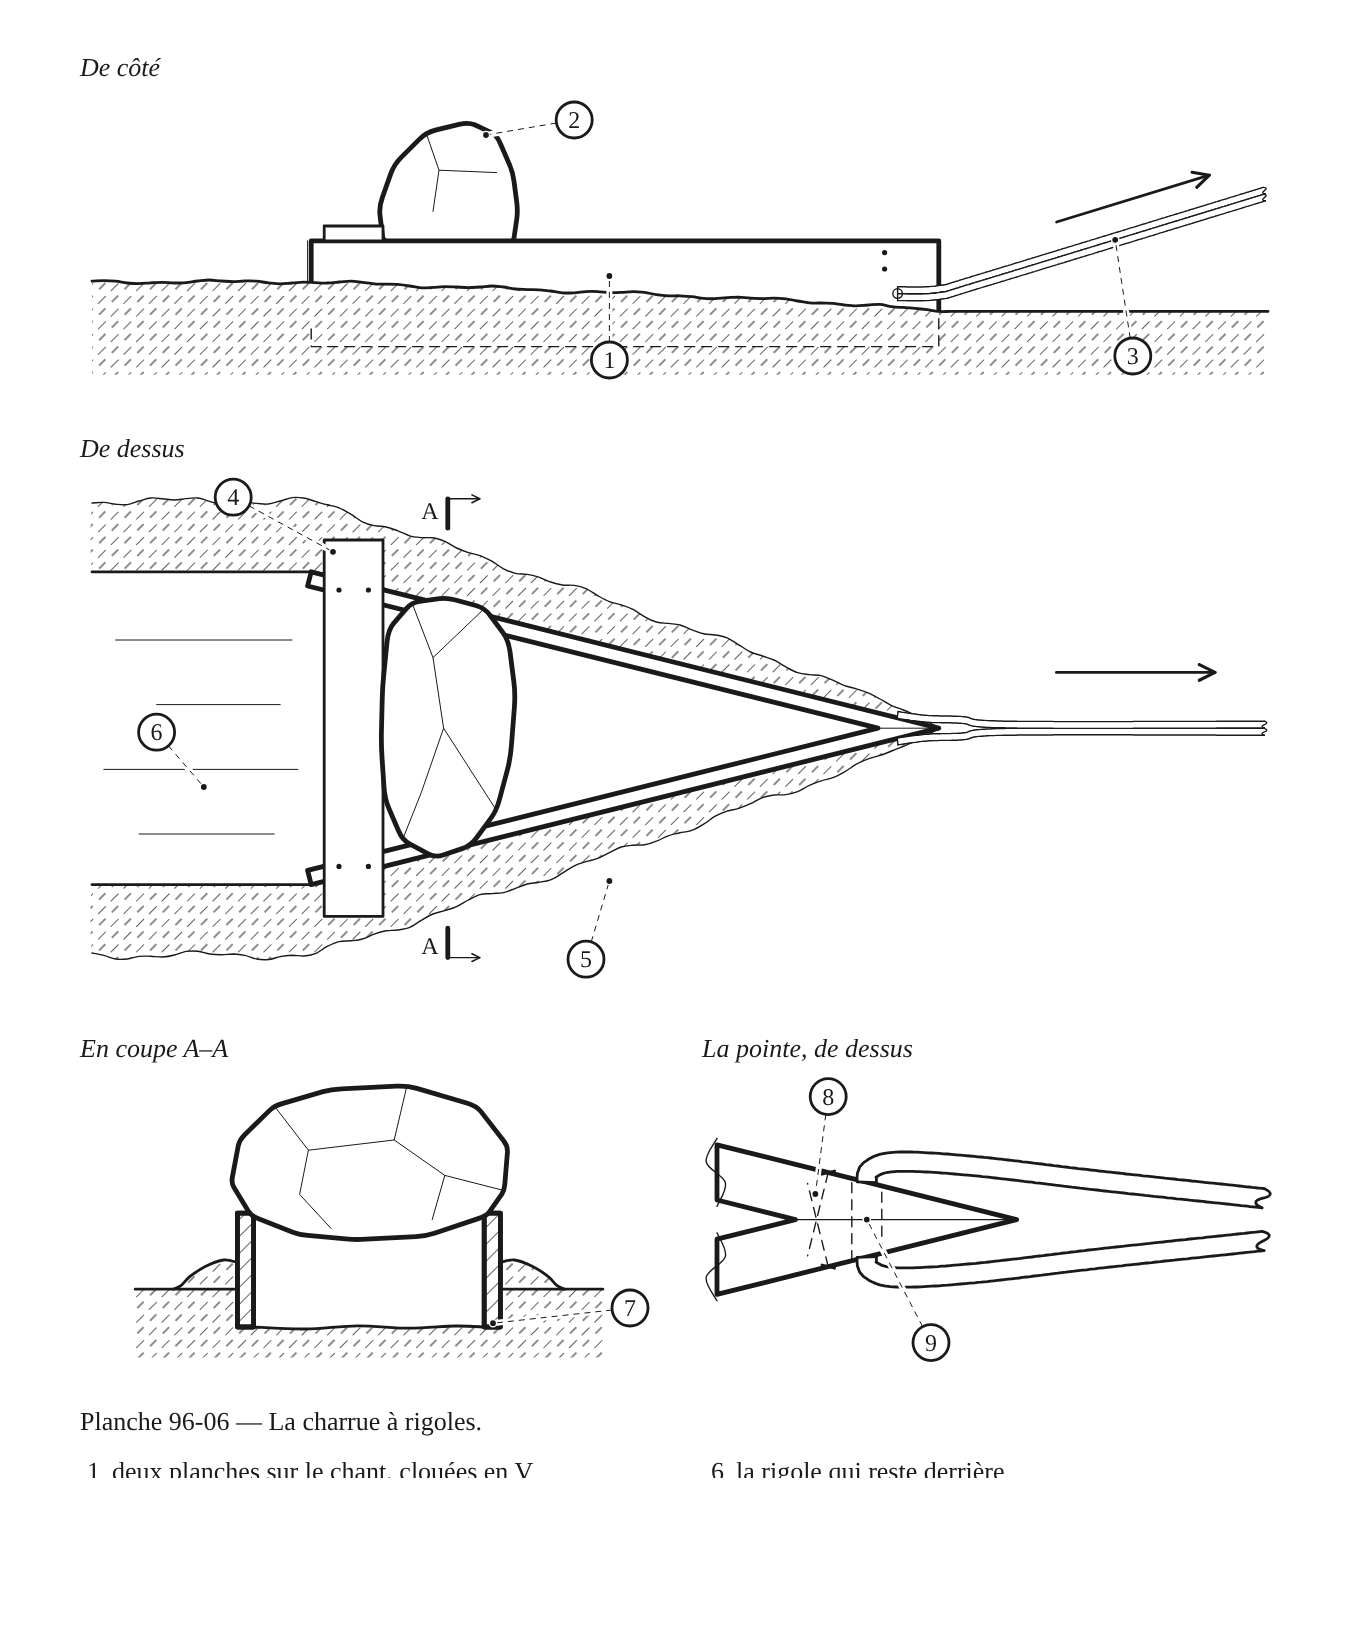
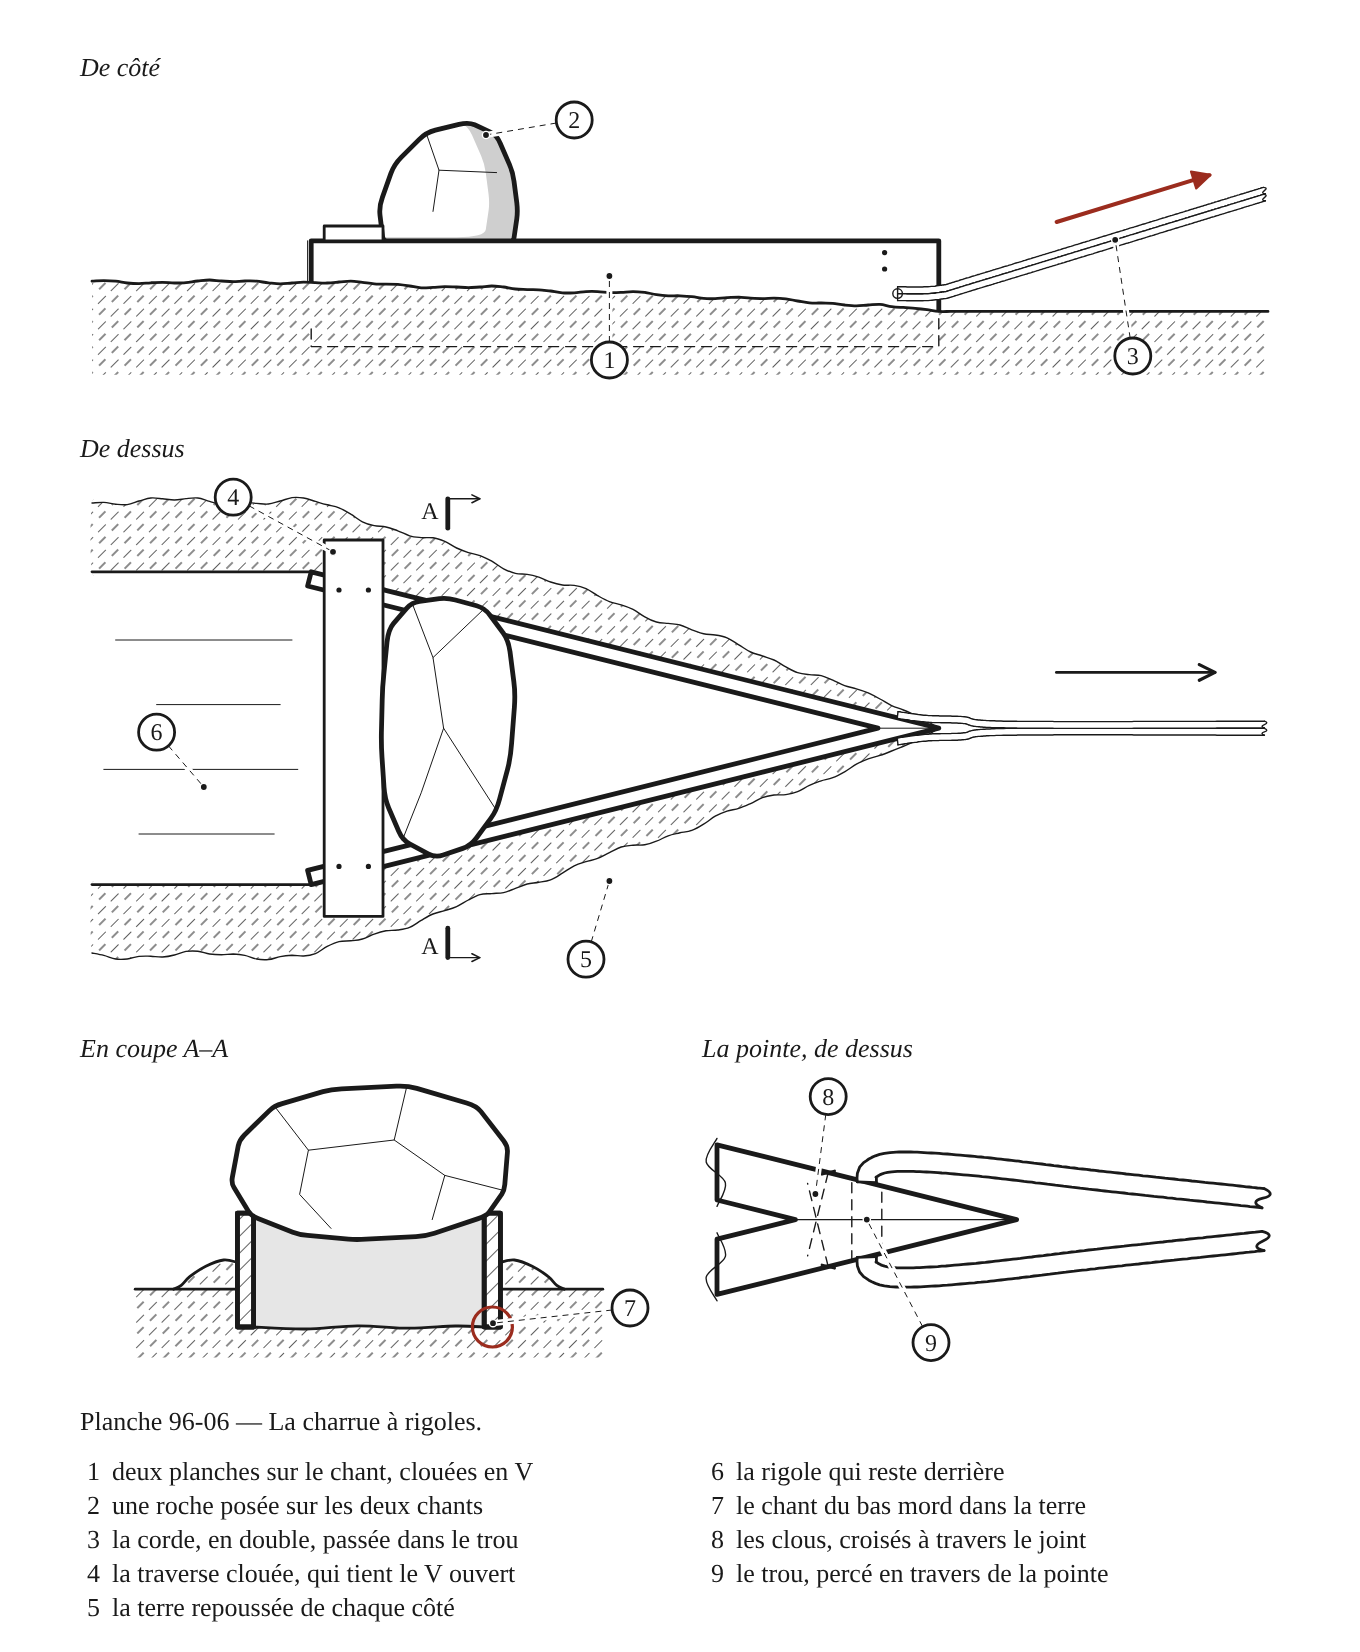
Charte, mains et têtes : travail en cours
Claude-Session: https://claude.ai/code/session_014xDY5FLxFXDJt3nYAYznSZ

diff --git a/images/planches-src/96-06.js b/images/planches-src/96-06.js
@@ -8,6 +8,10 @@
 // traverse clouée à l'arrière (elle tient l'ouverture du V et retient la roche) et le trou percé à la
 // pointe où passe la corde. Aucune cote : le chapitre ne donne aucune mesure de la charrue. Les
 // proportions (planches de 1100 × 180 × 25, demi-angle 14°) ne servent qu'au dessin.
+// La charte : de côté, la face de droite de la roche à l'ombre (un croissant, lumière en haut à
+// gauche) ; en coupe A–A, le dedans du V, vu vers la pointe, en gris loin. Le rouge : tirer la corde
+// (le geste, de côté) et le chant du bas qui mord dans la terre (le point à vérifier, en coupe). De
+// dessus, la flèche dit le sens où la charrue avance : elle reste noire.
 module.exports = (h) => {
   const F = h.formes;
   const r1 = v => Math.round(v * 10) / 10;
@@ -66,7 +70,16 @@ module.exports = (h) => {
     const out = [];
     // la roche, posée sur le chant ; sa partie basse, entre les planches, est cachée
     const roche = [[-944, -112], [-952, -178], [-926, -250], [-872, -304], [-800, -322], [-752, -300], [-724, -236], [-716, -170], [-724, -112]];
-    out.push(h.path(arrondi(Pl(roche)), blanc(h.a.contour)));
+    {
+      // la roche : fond blanc, croissant d'ombre à droite (le même contour décalé vers le haut à
+      // gauche le découpe), puis le contour
+      const dR = arrondi(Pl(roche)), dx = -48 * s, dy = -14 * s;
+      const dRd = arrondi(Pl(roche).map(([u, v]) => [u + dx, v + dy]));
+      out.push(h.path(dR, h.a.blanc));
+      out.push(`<defs><clipPath id="k9606-roche"><path d="${dR}" fill="#FFFFFF" stroke="none"/></clipPath></defs>`
+        + `<g clip-path="url(#k9606-roche)">${h.path(dR, h.a.ombre)}${h.path(dRd, h.a.blanc)}</g>`);
+      out.push(h.path(dR, h.a.contour));
+    }
     out.push(h.chemin(Pl([[-872, -304], [-850, -240], [-860, -170]]), h.a.fin));
     out.push(h.chemin(Pl([[-850, -240], [-752, -236]]), h.a.fin));
     // la planche proche (la lointaine est juste derrière, de même contour)
@@ -98,7 +111,7 @@ module.exports = (h) => {
     const n = [Math.sin(pente), -Math.cos(pente)];
     const a0 = [180, TROU[1] - 180 * Math.tan(pente)], a1 = [440, TROU[1] - 440 * Math.tan(pente)];
     const d = 70;
-    out.push(h.fleche(`M ${P(a0[0] + n[0] * d, a0[1] + n[1] * d).join(' ')} L ${P(a1[0] + n[0] * d, a1[1] + n[1] * d).join(' ')}`, h.a.arete));
+    out.push(h.geste(`M ${P(a0[0] + n[0] * d, a0[1] + n[1] * d).join(' ')} L ${P(a1[0] + n[0] * d, a1[1] + n[1] * d).join(' ')}`));
     return { svg: out.join('\n'), P };
   };
 
@@ -171,6 +184,8 @@ module.exports = (h) => {
     // le fond raclé : légèrement irrégulier, comme le sol en place
     const fondR = [[-YI, BAS], [-YI * 0.55, BAS + 3], [-YI * 0.1, BAS - 2], [YI * 0.35, BAS + 2], [YI * 0.75, BAS - 1.5], [YI, BAS]];
     const sol = [[-bord, 0], [-YO, 0], [-YO, BAS], ...fondR, [YO, BAS], [YO, 0], [bord, 0], [bord, 108], [-bord, 108]];
+    // le dedans du V, vu vers la pointe : les faces intérieures des planches, en gris loin
+    out.push(h.chemin(Pl([[-YI, HAUT], [YI, HAUT], ...fondR.slice().reverse()]), h.a.loin, true));
     out.push(h.chemin(Pl(sol), h.a.hachure('terre', 'aucun'), true));
     out.push(h.chemin(Pl([[-bord, 0], [-YO, 0]]), h.a.arete), h.chemin(Pl([[YO, 0], [bord, 0]]), h.a.arete));
     // la terre repoussée contre chaque planche
@@ -196,6 +211,8 @@ module.exports = (h) => {
     out.push(h.chemin(Pl([[120, -180], [100, -110]]), h.a.fin));
     // le fond de la rigole, après les planches pour qu'il passe dessous du même trait que le sol
     out.push(h.path(lisse(Pl(fondR)), h.a.arete));
+    // le point à vérifier : le chant du bas, qui mord dans la terre
+    out.push(h.controle(...P(YO - TI / 2, BAS), 10));
     return { svg: out.join('\n'), P, YO, YI };
   };
 

diff --git a/images/planches-src/96-09.js b/images/planches-src/96-09.js
@@ -7,6 +7,10 @@
 // l'urine va au pied des plants. Aucune mesure du trou : aucune cote, la bêche sert d'échelle.
 // Le sol en place est le podzol du § 3 : sous la mousse, une mince couche noire, la couche grise
 // délavée, puis la couche couleur de rouille.
+// La charte : le trou vide, en coupe, montre sa paroi du fond en gris loin (comme la 96-02). Le
+// rouge : la mousse levée vers le côté (le geste) et, en coupe, la terre autour de la racine (le
+// point à vérifier : rien de posé contre elle). La cendre et le varech qui tombent, l'urine versée
+// gardent leurs flèches noires.
 module.exports = (h) => {
   const N = '#1A1A1A', B = '#FFFFFF';
   const f = (v) => Math.round(v * 10) / 10;
@@ -110,7 +114,7 @@ module.exports = (h) => {
       const bl = g.cx - g.wb / 2, br = g.cx + g.wb / 2, yf = g.ys + g.D, r = 7;
       const murs = [[hl, g.ys], [bl, yf - r], ...bez([bl, yf - r], [bl, yf], [bl + r, yf], 4).slice(1),
         [br - r, yf], ...bez([br - r, yf], [br, yf], [br, yf - r], 4).slice(1), [hr, g.ys]];
-      out.push(poly(murs, g.trou === 'vide' ? h.a.blanc : FN));
+      out.push(poly(murs, g.trou === 'vide' ? h.a.loin : FN));
       out.push(ouvert(murs, h.a.arete));
     }
     if (g.trou === 'vide') {
@@ -194,7 +198,7 @@ module.exports = (h) => {
           out.push(mousse(xa, xb, yP - m, g.mo, rnd, [xa, xb]));
           out.push(ouvert([[xa, yP - m - g.mo], [xa, yP], [xb, yP], [xb, yP - m - g.mo]], h.a.arete));
           // Le geste : du trou vers la plaque.
-          out.push(h.fleche(`M ${f(g.cx)} ${f(g.ys - 4)} Q ${f(g.cx + 12)} ${f(g.ys - 54)} ${f((xa + xb) / 2 - 8)} ${f(yP - m - g.mo - 6)}`));
+          out.push(h.geste(`M ${f(g.cx)} ${f(g.ys - 4)} Q ${f(g.cx + 12)} ${f(g.ys - 54)} ${f((xa + xb) / 2 - 8)} ${f(yP - m - g.mo - 6)}`));
           return out.join('\n');
         },
         renvois: (z) => {
@@ -306,6 +310,8 @@ module.exports = (h) => {
           });
           out.push(poly(ell, blanc(h.a.arete)));
           out.push(h.fleche(`M ${f(u.a[0])} ${f(u.a[1])} L ${f(u.b[0])} ${f(u.b[1])}`));
+          // le point à vérifier : la terre autour de la racine, où rien n'est posé
+          out.push(h.controle(rz.cx, rz.cy, rz.ry * 0.85));
           return out.join('\n');
         },
         renvois: (z) => {
